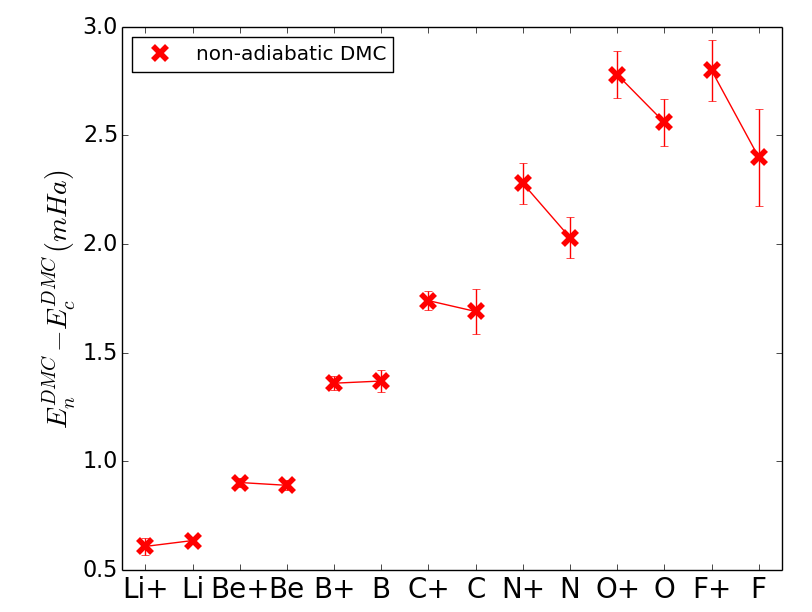
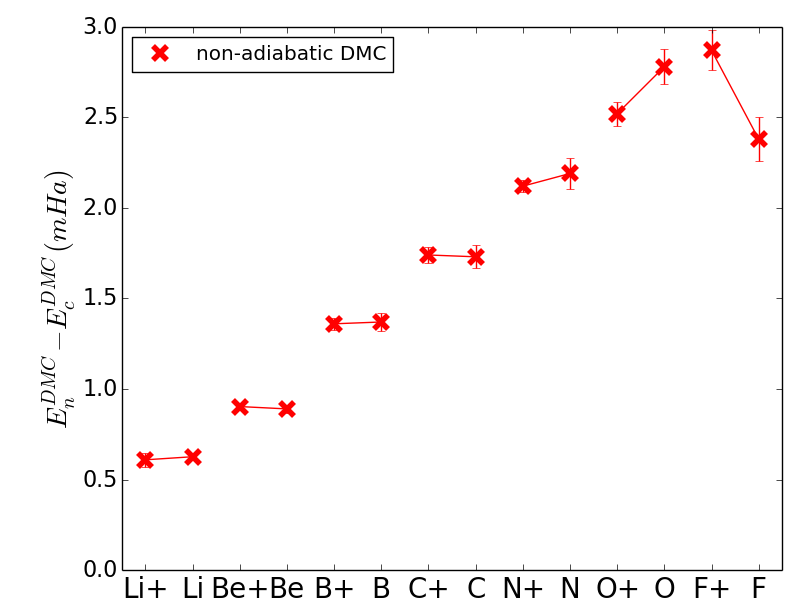
Shrunk atom error bars
1. N,O,F,N+,O+,F+ error bars were shrunk, need to change conclusion
2. Non-adiabatic LiH was redone at ECG distance, need to redo adiabatic
as well

diff --git a/main.tex b/main.tex
@@ -36,7 +36,7 @@ where $\vec{r}$ refers to the spatial coordinates of all the electrons, $\vec{R}
 \begin{align}
 \psi_e(\vec{r})=e^{J(\vec{r},\vec{\beta})}\Psi_{\text{CISD}}(\vec{r};\vec{R}_e)\label{eq:psie}
 \end{align}
-We optimized the CSF and Jastrow coefficients $\vec{\alpha},\vec{\beta}$ simultaneously with QMCPACK \cite{QMCPACK}. Optimization is performed with the ions clamped to their equilibrium positions. We include all CSFs with coefficients bigger than some cutoff $\epsilon$ to lend reasonable flexibility to the wavefunction during optimization. We include as many CSFs as possible to maximize the flexibility of the wavefunction. However, the inclusion of too many CSFs with small expansion coefficients can introduces noise as they requires a large number of samples in the optimization step to be optimized. We have chosen $\epsilon$ to restrict the number of CSFs in the wave function to be $\sim$1000 in all systems. Optimization was performed with the linear method with roughly $10^7$ statistically independent samples and we chose a cost function consisting of equal parts average local energy and reweighted variance.
+We optimized the CSF and Jastrow coefficients $\vec{\alpha},\vec{\beta}$ simultaneously with QMCPACK \cite{QMCPACK}. Optimization is performed with the ions clamped to their equilibrium positions. We include all CSFs with coefficients bigger than some cutoff $\epsilon$ to lend reasonable flexibility to the wavefunction during optimization. We include as many CSFs as possible to maximize the flexibility of the wavefunction. However, the inclusion of too many CSFs with small expansion coefficients can introduces noise as they requires a large number of samples in the optimization step to be optimized. We have chosen $\epsilon$ to restrict the number of CSFs in the wave function to be $\sim$1000 in all systems. Optimization was performed with the linear method with roughly $10^6$ statistically independent samples and we chose a cost function consisting of equal parts average local energy and reweighted variance.
 
 \subsection{Electron-Ion Wavefunction}
 
@@ -52,10 +52,10 @@ Once a satisfactory electronic wave function has been obtained, we construct the
 \end{align}
 where $\vec{R}$ includes spatial coordinates of all ions. The ionic wave function consists of simple products of Gaussian wave functions over each nuclei pair,
 \begin{align}
-\psi_I(\vec{R})\propto \prod\limits_{i,j>i}e^{-a(\vert \vec{R}-\vec{R}_j\vert-b_{ij})^2},
+\psi_I(\vec{R})\propto \prod\limits_{i,j>i}e^{-a(\vert \vec{R}_i-\vec{R}_j\vert-b_{ij})^2},
 \label{wfs_ions}
 \end{align}
-where $a$ is a coefficient for the ion wave function that we optimize and $b_{ij}$ are taken to be the equilibrium distances between the nuclei. FN-DMC was then performed with the fully optimized electron-ion wave function. We performed timestep extrapolation for all of the tested systems. At least four timesteps from $0.005~\text{Ha}^{-1}$ to $0.001~\text{Ha}^{-1}$ were used for all systems in the adiabatic FN-DMC and $0.001~\text{Ha}^{-1}$ to $0.0001~\text{Ha}^{-1}$ in non-adiabatic FN-DMC.
+where $a$ is a coefficient for the ion wave function that we optimize and $b_{ij}$ are taken to be the equilibrium distances between the nuclei. The equilibrium geometries for BeH and BH are chosen to be the ECG-optimized distances for a comparison with the ECG method and the geometries for the rest of the hydrides are taken from experimental data \cite{CCCBDB}. FN-DMC was then performed with the fully optimized electron-ion wave function. We performed timestep extrapolation for all of the tested systems. At least four timesteps from $0.005~\text{Ha}^{-1}$ to $0.001~\text{Ha}^{-1}$ were used for all systems in the adiabatic FN-DMC and $0.001~\text{Ha}^{-1}$ to $0.0001~\text{Ha}^{-1}$ in non-adiabatic FN-DMC.
 
 Due to the locality of the Gaussian basis set used in the quantum chemistry calculations for constructing the electronic wave function, the nodes change based on the ionic positions, which we have previously called the dragged-node approximation. In particular, the nodes only coincide with those obtained from the quantum chemistry calculation when the ions are at their equilibrium positions $\bar{\psi}_e(\vec{r},\vec{R}_e)=\psi_e(\vec{r})$. Although there are approaches for going beyond this approximation, it was demonstrated to be highly accurate over a range of molecules in previous work.~\cite{Tubman_ECG} For the systems considered here, we can impose various symmetries of the Hamiltonian onto the wave function that arise from the relative motion of the ions. In Fig.~\ref{fig:drag} we demonstrate this strategy for the simple cases of a hydrogen atom and a H$_2^+$ molecular ion. Although the dragged-node technique is developed with atomic and diatomic systems in mind, it is not difficult to generalize it for use in larger systems or even apply to parts of a bigger system, e.g., treating light ions as quantum particles and heavy ions as "clamped". 
 
@@ -64,58 +64,51 @@ Due to the locality of the Gaussian basis set used in the quantum chemistry calc
 
 \begin{figure}
 \centering
-\includegraphics[scale=.4]{Figures/ad-ECG}
-\caption{Clamped-ion FN-DMC ground state energies for $\text{Be}^+$,Be,$\text{B}^+$,B,$\text{C}^+$ relative to clamped-ion ECG references.~\cite{Stanke_Be,Puchalski_Be+,Bubin_B,Bubin_B+,Bubin_C+} These differences provide an estimate for the fixed node errors in these systems. \label{fig:ad-atoms}}
+\includegraphics[scale=.4]{Figures/atom-ECG}
+\caption{FN-DMC ground state energies for $\text{Be}^+$,Be,$\text{B}^+$,B,$\text{C}^+$ relative to ECG references.~\cite{Stanke_Be,Puchalski_Be+,Bubin_BeH_noBO,Bubin_B,Bubin_B+,Bubin_C+} These differences provide an estimate for the fixed node error. \label{fig:atom-ECG}}
 \end{figure}
 
 \begin{figure}
-\centering
-\includegraphics[scale=.4]{Figures/nad-ECG}
-\caption{Non-adiabatic FN-DMC ground state energies for $\text{Be}^+$,Be,$\text{B}^+$,B,$\text{C}^+$ relative to non-adiabatic ECG references.~\cite{Bubin_BeH_noBO,Bubin_B,Bubin_B+,Bubin_C+} These differences provide an estimate for the fixed node errors in these systems. \label{fig:ECG-atoms}}
+\includegraphics[scale=.37]{Figures/atom-nad-ad}
+\caption{Non-adiabatic contribution to ground state energies of atoms and ions. $E_n^{DMC}$ is the non-adiabatic ground state energy whereas $E_c^{DMC}$ is the clamped-ion ground state energy. Non-adiabatic contribution shows very little dependence with the ionized state.}
 \end{figure}
 
 \subsection{Ground State Energies}
-Ground state energies are calculated for first row atoms and ions and hydrides with and without the adiabatic assumption, see Table \ref{tab:ionization} and \ref{tab:atomization}. The ground state geometries for BeH and BH are chosen to be the ECG-optimized distances for a comparison with the ECG method and the geometries for the rest of the hydrides are taken from experimental data \cite{CCCBDB}. For the small systems, Li, Be, B, Be$^+$, B$^+$, C$^+$ and LiH the ECG/Hylleraas results are converged to several digits beyond what can be done with normal quantum chemistry techniques. Thus these results are likely much more accurate than experimental results, and are converged to an accuracy beyond our FN-DMC results.
+
+Ground state energies are calculated for first row atoms and ions and hydrides with and without the adiabatic assumption, see Table \ref{tab:ionization} and \ref{tab:atomization}. For the small systems, Li, Be, B, Be$^+$, B$^+$, C$^+$ and LiH the ECG/Hylleraas results are converged to several digits beyond what can be done with normal quantum chemistry techniques. Thus these results are likely much more accurate than experimental results, and are converged to an accuracy beyond our FN-DMC results.
 
 As an illustration of the high quality QMC techniques used in this work, we compare our atomic results with a recent QMC benchmark study~\cite{Seth_Bench}. The clamped nuclei ground state FN-DMC energies consistently agree across all systems (except for O$^{+}$), within error bars. This is an interesting coincidence since we used a different approach in optimizing our wave functions. In particular our large multi-determinant expansions, can be compared with the approach used by Seth {\it et al.}~\cite{Seth_Bench} which used moderately-sized multi-determinant expansions ($\sim$ 100 CSF) with a backflow transformation.   
  
-For the atomic systems, there are three ECG calculations of non-adiabatic ground state energies we can use as benchmark. The non-adiabatic ground-state energies for Be, $\text{Be}^+$, B,$\text{B}^+$ and $\text{C}^+$ are in agreement with ECG results (-14.66643544~Ha~\cite{Bubin_BeH_noBO},-14.32386349~Ha~\cite{Bubin_BeH_noBO},-24.65262387(250)~Ha~\cite{Bubin_B},-24.347641289(35)~Ha~\cite{Bubin_B+},-37.42916955(250)~Ha~\cite{Bubin_C+}) within 0.2 mHa as shown in Figure \ref{fig:ECG-atoms}.
-
-We performed a study over diatomic systems, the results of which are presented in Table \ref{tab:atomization}. For these diatomic systems, there are high quality thermochemistry benchmark results for which we can compare ~\cite{Feller_Corrections}. 
+For the atomic systems, there are five ECG calculations of non-adiabatic ground state energies we can use as benchmark. The non-adiabatic ground-state energies for Be, $\text{Be}^+$, B,$\text{B}^+$ and $\text{C}^+$ are in agreement with ECG results within 0.2 mHa as shown in Figure \ref{fig:atom-ECG} and Table \ref{tab:ionization}. We performed a study over diatomic systems, the results of which are presented in Table \ref{tab:atomization}. For these diatomic systems, there are high quality thermochemistry benchmark results for which we can compare ~\cite{Feller_Corrections}. 
 
 To make the comparison against the thermochemistry benchmark results, we take the reference energies from the last column of Table VI of Ref.~\cite{Feller_Corrections} and subtracted the corrections in the $\Delta E_{SR}$ and SO columns for comparison with our non-adiabatic energies.  For the comparison with our adiabatic energies we subtracted the DBOC and ZPE corrections.  Corrections from spin-orbit coupling and relativistic effects are not used, as they are not included in our Hamiltonian.
 
-\begin{figure}
-\includegraphics[scale=.4]{Figures/atom-nad-ad}
-\caption{Non-adiabatic contribution to ground state energies of atoms and ions. Non-adiabatic contribution shows very little dependence with the ionized state.}
+\begin{figure}[h]
+\centering
+\includegraphics[scale=.4]{Figures/dia-ECG}
+\caption{Ground state energies of LiH, BeH and BH calculated with non-adiabatic FN-DMC relative to ECG results.~\cite{Adamowicz_LiH,Koput_BeH,Miliordos_BH}.}
 \end{figure}
 
-\begin{figure}
+\begin{figure}[h]
 \includegraphics[scale=.4]{Figures/hydride-ZPE}
 \caption{Non-adiabatic contribution to ground state energies in hydrides. The adiabatic reference energies are calculated by adding zero-point contributions from \cite{Feller_Corrections} to our clamped-nuclei results.}
 \end{figure}
 
 \subsection{Ionization Energies}
 
-\begin{figure}[h]
+The ionization energies are listed in Table \ref{tab:ionization}.  Notice that even though ground state energies change significantly with the inclusion of non-adiabatic effects, the ionization energies are relatively independent of nuclear motion. This suggests that for atomic systems, coupling between valence electron and ion motions is small. The difference in ground state energies can be entirely attributed to the zero point motion of the nuclei. Physically, this means that for all first row atoms, the outer most electron is screened from the nucleus and all of the energy required for its removal can be attributed to its interaction with the rest of the electrons in the atom.
+
+For the LiH molecule we are also interested in calculating the electron affinity for comparison to ECG results. We calculated the ground state energy of LiH$^-$ to be $-8.08220(2)$~Ha for the case of clamped nuclei.  With non-adiabatic effects included our result is  $-8.07811(3)$~Ha. Our non-adiabatic result is in good agreement with a previous ECG study \cite{Bubin_LiH_noBO} which reported a value of $-8.07856887$~Ha. We report an electron affinity of $0.01191(4)$~Ha which is can be compared to the ECG prediction of $0.012132(2)$~Ha and agrees with experiment, $0.0126(4)$~Ha. \footnote{We note that LiH ground state energies which we compare against are mislabeled in Ref.\cite{Bubin_LiH_noBO}, with $\text{LiH}^-$ and LiD being switched.}
+
+\begin{figure}
 \centering
 \includegraphics[scale=.4]{Figures/ionization}
 \caption{Calculated ionization energies relative to experimental data. The calculated energies are all within 1 mHa of experiment.}
 \end{figure}
 
-The ionization energies are listed in Table \ref{tab:ionization}.  Notice that even though ground state energies change significantly with the inclusion of non-adiabatic effects, the ionization energies are relatively independent of nuclear motion. This suggests that for atomic systems, coupling between valence electron and ion motions is small. The difference in ground state energies can be entirely attributed to the zero point motion of the nuclei. Physically, this means that for all first row atoms, the outer most electron is screened from the nucleus and all of the energy required for its removal can be attributed to its interaction with the rest of the electrons in the atom.
-
-For the LiH molecule we are also interested in calculating the electron affinity for comparison to ECG results. We calculated the ground state energy of LiH$^-$ to be $-8.08220(2)$~Ha for the case of clamped nuclei.  With non-adiabatic effects included our result is  $-8.07811(3)$~Ha. Our non-adiabatic result is in good agreement with a previous ECG study \cite{Bubin_LiH_noBO} which reported a value of $-8.07856887$~Ha. We report an electron affinity of $0.01191(4)$~Ha which is can be compared to the ECG prediction of $0.012132(2)$~Ha and agrees with experiment, $0.0126(4)$~Ha. \footnote{We note that LiH ground state energies which we compare against are mislabeled in Ref.\cite{Bubin_LiH_noBO}, with $\text{LiH}^-$ and LiD being switched.}
-
 \input{Table/diatomics}
 
 \subsection{Atomization Energies}
-
-\begin{figure}
-\centering
-\includegraphics[scale=.4]{Figures/dia-ECG}
-\caption{Ground state energies of LiH, BeH and BH calculated with non-adiabatic FN-DMC relative to ECG results.~\cite{Adamowicz_LiH,Koput_BeH,Miliordos_BH}.}
-\end{figure}
 
 \begin{figure}
 \centering

diff --git a/Table/diatomics.tex b/Table/diatomics.tex
@@ -31,7 +31,7 @@
 \multicolumn{1}{c}{} &
 \multicolumn{1}{c}{} &
 \multicolumn{1}{c}{} \\
-E (this work) & \text{-}8.070521(7) & \text{-}15.24793(1) & \text{-}25.28868(2) & \text{-}38.4781(1) & \text{-}75.7352(1) & \text{-}100.4556(2) \\
+E (this work) & \text{-}\textbf{8.070521(7)} & \text{-}15.24793(1) & \text{-}25.28868(2) & \text{-}38.4781(1) & \text{-}75.7352(1) & \text{-}100.4556(2) \\
 $E_{\text{ref}}$ \tnote{a} \cite{Adamowicz_LiH,Koput_BeH,Miliordos_BH,Davidson_Atoms,Feller_Corrections} & \text{-}8.0705473 & \text{-}15.247846 & \text{-}25.287650 & \text{-}38.4792(2) & \text{-}75.7382(2) & \text{-}100.4600(3) \\
 \multicolumn{1}{c}{} & 
 \multicolumn{1}{c}{} &
@@ -40,7 +40,7 @@ $E_{\text{ref}}$ \tnote{a} \cite{Adamowicz_LiH,Koput_BeH,Miliordos_BH,Davidson_A
 \multicolumn{1}{c}{} &
 \multicolumn{1}{c}{} &
 \multicolumn{1}{c}{} \\
-E (this work) & \text{-}\textbf{8.06621(3)} & \text{-}15.24198(6) & \text{-}25.28103(5) & \text{-}\textbf{38.4671(2)} & \text{-}75.7239(4) & \text{-}100.4447(4) \\
+E (this work) & \text{-}8.06606(2) & \text{-}15.24198(6) & \text{-}25.28103(5) & \text{-}\textbf{38.4671(2)} & \text{-}75.7239(4) & \text{-}100.4447(4) \\
 ECG \cite{Bubin_LiH_noBO,Bubin_BeH_noBO,Bubin_BH_noBO} & \text{-}8.0664371(15) & \text{-}15.24203(10) & \text{-}25.2803(10) & N/A & N/A & N/A \\
 \hline
 
@@ -60,7 +60,7 @@ Feller \tnote{b} \cite{Feller_Corrections} & 0.09262(5) & 0.0809(4) & 0.1354(2) 
 \multicolumn{1}{c}{} &
 \multicolumn{1}{c}{} &
 \multicolumn{1}{c}{} \\
-$D_{0}^0$ (this work) & \textbf{0.08909(3)}  & 0.07585(6)  & 0.12893(7) & \textbf{0.1246(2)} & 0.1610(4) & 0.2158(4) \\
+$D_{0}^0$ (this work) & 0.08893(2)  & 0.07585(6)  & 0.12893(7) & \textbf{0.1246(2)} & 0.1612(4) & 0.2158(4) \\
 Feller \tnote{c} \cite{Feller_Corrections} & 0.08940(5) & 0.0761(4) & 0.1299(2) & 0.1276(2) & 0.1622(2) & 0.2166(3)\\
 Exp. \cite{CCCBDB} & 0.08874(38) & 0.0826(11) & 0.1281(37) & 0.1275(5) & 0.1622(1) & 0.2158(3) \\
 \hline\hline

diff --git a/Table/atoms.tex b/Table/atoms.tex
@@ -46,7 +46,7 @@ $E_{\text{ref}}$ \cite{Davidson_Atoms,Wang_Li,Stanke_Be,Bubin_B} &  \text{-}7.47
 \multicolumn{1}{c}{} &
 \multicolumn{1}{c}{} &
 \multicolumn{1}{c}{} \\
-FN-DMC & \text{-}7.47742(1) & \text{-}14.66643(2) & \text{-}24.65240(5) & \text{-}37.8428(1) & \text{-}54.58655(9) & \text{-}75.0632(1) & \text{-}99.7292(2) \\
+FN-DMC & \text{-}7.47743(1) & \text{-}14.66643(2) & \text{-}24.65240(5) & \text{-}37.8428(1) & \text{-}54.58639(8) & \text{-}75.06298(9) & \text{-}99.72922(7) \\
 ECG & N/A & \text{-}14.666435\tnote{d} & \text{-}24.652624\tnote{e} & N/A & N/A & N/A & N/A \\
 \hline
 
@@ -78,7 +78,7 @@ $E_{\text{ref}}$ \tnote{f} \cite{Davidson_Atoms,Puchalski_Be+,Bubin_B+,Bubin_C+}
 \multicolumn{1}{c}{} &
 \multicolumn{1}{c}{} &
 \multicolumn{1}{c}{} \\
-FN-DMC & \text{-}7.27931(4) & \text{-}14.32386(2) & \text{-}24.34748(3) & \text{-}37.42901(4) & \text{-}54.05148(8) & \text{-}74.5631(1) & \text{-}99.0885(1) \\
+FN-DMC & \text{-}7.27931(4) & \text{-}14.32386(2) & \text{-}24.34748(3) & \text{-}37.42901(4) & \text{-}54.05164(2) & \text{-}74.56336(5) & \text{-}99.08843(5) \\
 ECG & N/A &  \text{-}14.323863\tnote{j} &  \text{-}24.347641\tnote{k} &  \text{-}37.429169\tnote{l} & N/A & N/A & N/A \\
 \hline
 \multicolumn{1}{c}{} & 
@@ -98,7 +98,7 @@ IP (FN-DMC) & 0.19814(1) & 0.34257(1) & 0.30493(1) & 0.41374(3) & 0.53482(4) & 0
 \multicolumn{1}{c}{} &
 \multicolumn{1}{c}{} &
 \multicolumn{1}{c}{} \\
-IP (FN-DMC) & 0.19811(4) & 0.34257(3) & 0.30492(6) & 0.41375(7) & 0.5351(1) & 0.5001(1) & 0.6407(2) \\
+IP (FN-DMC) & 0.19812(4) & 0.34257(3) & 0.30492(6) & 0.41375(7) & 0.53475(8) & 0.4996(1) & 0.64079(8) \\
 IP (Exp.) \cite{Davidson_Atoms} & 0.19807 & 0.342593 & 0.304982 & 0.41412 & 0.5340 & 0.5005 & 0.6402 \\
 \hline\hline
 \end{tabular}
